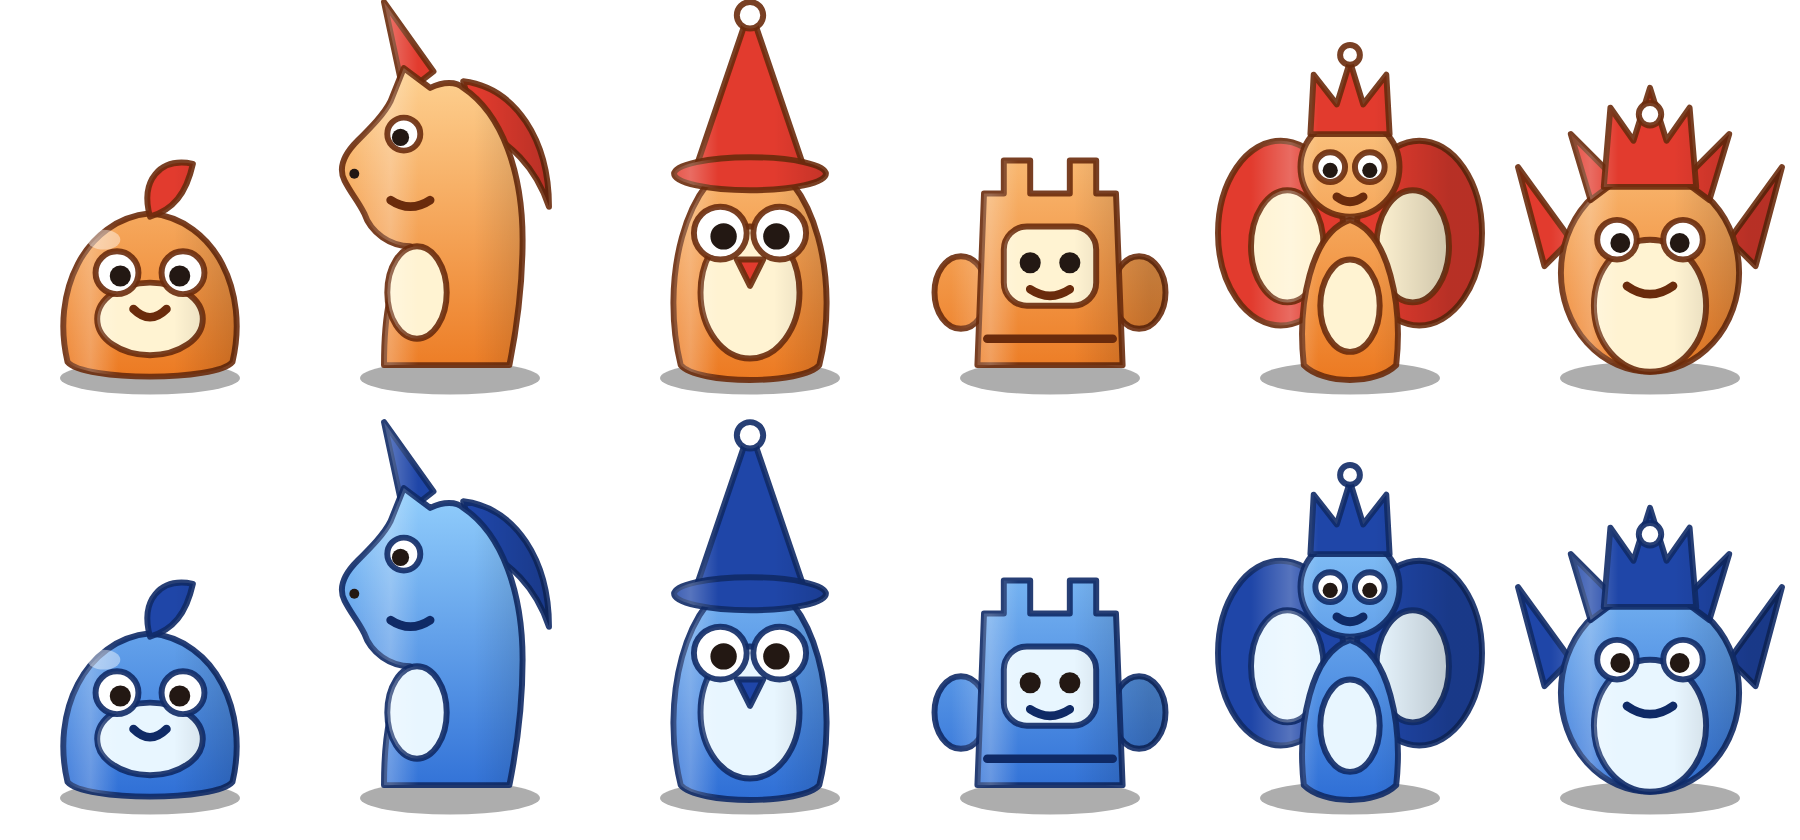
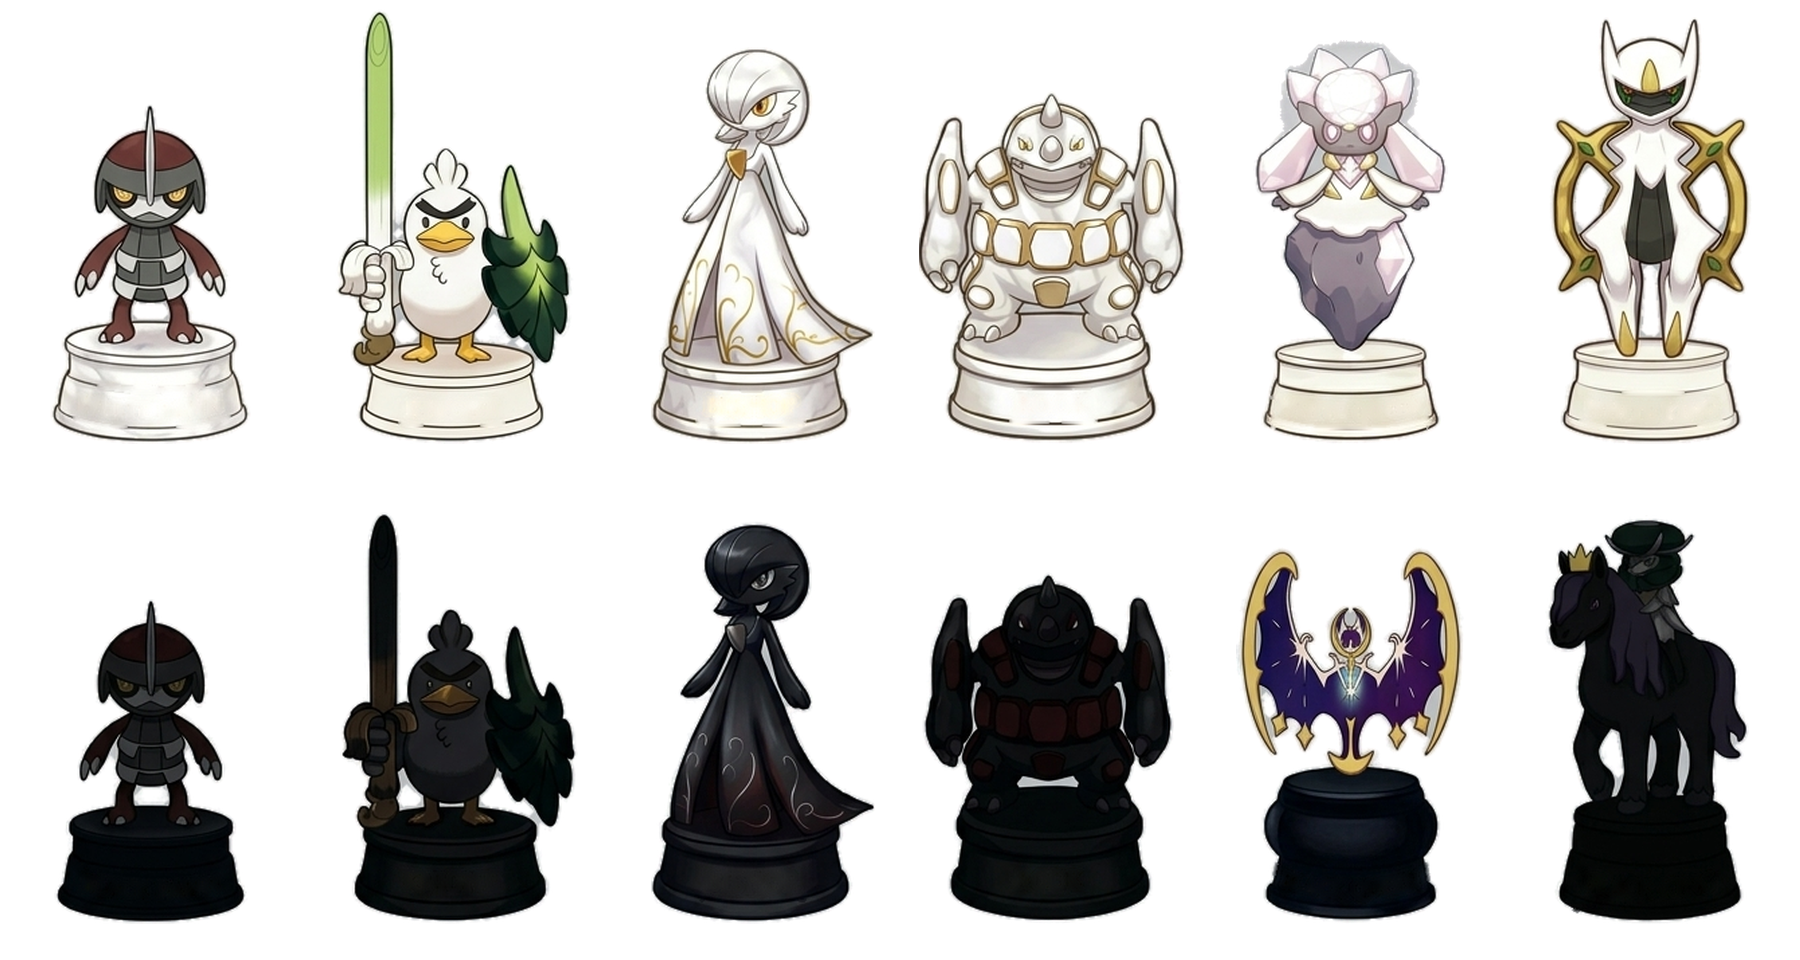
new resource
new resource

diff --git a/game.js b/game.js
@@ -304,12 +304,13 @@
     st.setProperty('--pc-aspect', String(p.aspect));
     st.setProperty('--pc-ratio', String(1 / p.aspect));
     st.setProperty('--pc-bottom', String(p.bottom));
+    st.setProperty('--ov', `calc(var(--sq) * ${(p.aspect - 0.96).toFixed(3)})`);   // 기물이 보드 위로 넘어가는 높이
     st.setProperty('--bg1', u.bg1); st.setProperty('--bg2', u.bg2);
     st.setProperty('--f1', u.f1); st.setProperty('--f2', u.f2);
     st.setProperty('--pc-filter', u.filter);
     document.documentElement.setAttribute('data-theme', SP.id);
   }
-  function setTheme(id) { S.theme = id; save(); applyTheme(); buildBoard(); render(); buildMenu(); }
+  function setTheme(id) { S.theme = id; save(); applyTheme(); layout(); buildBoard(); render(); buildMenu(); }
 
   function buildBoard() {
     boardEl.innerHTML = ''; cells.length = 0;
@@ -438,7 +439,7 @@
   // ---------- 레이아웃: 어떤 비율에서도 스크롤 없이 보드를 최대로 ----------
   function layout() {
     const st = $('#stage'), r = st.getBoundingClientRect();
-    const W = r.width, H = r.height, pad = 8, lab = 14, PH = 112, LW = 172, k = 1 + .46 / 8;   // k: 기물이 보드 위로 넘어가는 높이, lab: 축 좌표 여백
+    const W = r.width, H = r.height, pad = 8, lab = 14, PH = 112, LW = 172, k = 1 + (SP.pieces.aspect - 0.96) / 8;   // k: 기물이 보드 위로 넘어가는 높이, lab: 축 좌표 여백
     const bp = Math.min(W - 2 * (pad + lab), (H - 2 * PH - lab) / k), bl = Math.min((H - 2 * pad - lab) / k, W - 2 * LW - 2 * lab);
     const land = bl > bp;
     let bs = Math.max(land ? bl : bp, 120);

diff --git a/sprites.js b/sprites.js
@@ -11,16 +11,16 @@
  */
 (function () {
   const cell = { light: 0, dark: 1, select: 2, dot: 3, ring: 4, last: 5, check: 6, hint: 7 };
-  const mk = (id, name, ui) => ({
+  const mk = (id, name, ui, aspect) => ({
     id, name, ui,
-    pieces: { src: `t-${id}-pieces.png`, cols: 6, rows: 2, col: { P: 0, N: 1, B: 2, R: 3, Q: 4, K: 5 }, row: { w: 0, b: 1 }, aspect: 1.4, bottom: 0.06 },
+    pieces: { src: `t-${id}-pieces.png`, cols: 6, rows: 2, col: { P: 0, N: 1, B: 2, R: 3, Q: 4, K: 5 }, row: { w: 0, b: 1 }, aspect: aspect || 1.4, bottom: 0.06 },
     board: { src: `t-${id}-board.png`, cols: 8, rows: 1, cell }
   });
   window.THEMES = [
     mk('steel', '스틸 & 네이비', { bg1: '#1f5560', bg2: '#07151b', f1: '#b98f58', f2: '#5b3f24', pv: ['#efe7d4', '#25262b'], filter: 'drop-shadow(0 3px 2px rgba(0,0,0,.5))' }),
     mk('classic', '클래식 우드', { bg1: '#3d2c20', bg2: '#120b07', f1: '#6b4423', f2: '#2e1c0e', pv: ['#ecd6ae', '#a9703f'], filter: 'drop-shadow(0 3px 2px rgba(0,0,0,.45))' }),
     mk('lego', '레고 블럭', { bg1: '#2a4f7a', bg2: '#0a1624', f1: '#f2c500', f2: '#8a6f00', pv: ['#e8e1cc', '#7ea06c'], filter: 'drop-shadow(0 3px 2px rgba(0,0,0,.45))' }),
-    mk('creature', '크리처 (오리지널)', { bg1: '#3f8650', bg2: '#10261a', f1: '#8c5a2a', f2: '#4d2f14', pv: ['#d3ec9f', '#8fc964'], filter: 'drop-shadow(0 3px 2px rgba(0,0,0,.4))' })
+    mk('creature', '포켓몬스터', { bg1: '#3f8650', bg2: '#10261a', f1: '#8c5a2a', f2: '#4d2f14', pv: ['#d3ec9f', '#8fc964'], filter: 'drop-shadow(0 3px 2px rgba(0,0,0,.4))' }, 1.6)
   ];
   window.SPRITES = window.THEMES[0];
 })();

diff --git a/sw.js b/sw.js
@@ -1,4 +1,4 @@
-const CACHE = 'chess-v6';
+const CACHE = 'chess-v7';
 const ASSETS = ['./', 'index.html', 'style.css', 'game.js', 'engine.js', 'ai-worker.js', 'sprites.js',
   't-steel-pieces.png', 't-steel-board.png', 't-classic-pieces.png', 't-classic-board.png', 't-lego-pieces.png', 't-lego-board.png', 't-creature-pieces.png', 't-creature-board.png', 'manifest.webmanifest', 'icon.svg', 'icon-180.png', 'icon-192.png', 'icon-512.png'];
 

diff --git a/build_assets.py b/build_assets.py
@@ -251,7 +251,7 @@ THEMES = [
          b=dict(fill=vert('#4f95ff', '#1646b8'), stroke='#08205e', line='#08205e', so=.9, sw=1.8),
          board=dict(light='#e8e1cc', dark='#7ea06c', grain=False, studs=True, ov=('#ffd91a', '#0d5c9e', '#ffe97a', '#ff7a1a')),
          ui=dict(bg1='#2a4f7a', bg2='#0a1624', f1='#f2c500', f2='#8a6f00', filter='drop-shadow(0 3px 2px rgba(0,0,0,.45))')),
-    dict(id='creature', name='크리처 (오리지널)', parts=creature_parts, scale=1.1, shine=.45,
+    dict(id='creature', name='포켓몬스터', parts=creature_parts, scale=1.1, shine=.45, custom_png=True,
          w=dict(fill=vert('#ffd89a', '#ec7a22'), belly='#fff3d2', accent='#e23b2e', stroke='#6a2b0c', line='#6a2b0c', so=.9, sw=1.8),
          b=dict(fill=vert('#9ad6ff', '#2f6fd6'), belly='#e8f6ff', accent='#1f46a8', stroke='#0f2a66', line='#0f2a66', so=.9, sw=1.8),
          board=dict(light='#d3ec9f', dark='#8fc964', grain=False, dots=True, ov=('#fff06a', '#1a6b30', '#f5e36a', '#4a8cff')),
@@ -521,8 +521,10 @@ if __name__ == '__main__':
     src = os.path.join(OUT, 'src'); os.makedirs(src, exist_ok=True)
     for th in THEMES:
         ps = os.path.join(src, f"t-{th['id']}-pieces.svg"); bs = os.path.join(src, f"t-{th['id']}-board.svg")
-        open(ps, 'w').write(build_pieces(th)); open(bs, 'w').write(build_board(th))
-        render_png(ps, os.path.join(OUT, f"t-{th['id']}-pieces.png"), CW * 6, CH * 2, 3)
+        open(bs, 'w').write(build_board(th))
+        if not th.get('custom_png'):   # custom_png: 제공받은 일러스트로 tools/make_creature_sheet.py 가 만든 PNG를 그대로 사용
+            open(ps, 'w').write(build_pieces(th))
+            render_png(ps, os.path.join(OUT, f"t-{th['id']}-pieces.png"), CW * 6, CH * 2, 3)
         render_png(bs, os.path.join(OUT, f"t-{th['id']}-board.png"), 800, 100, 3)
         print('rendered', th['id'])
     build_icons()
